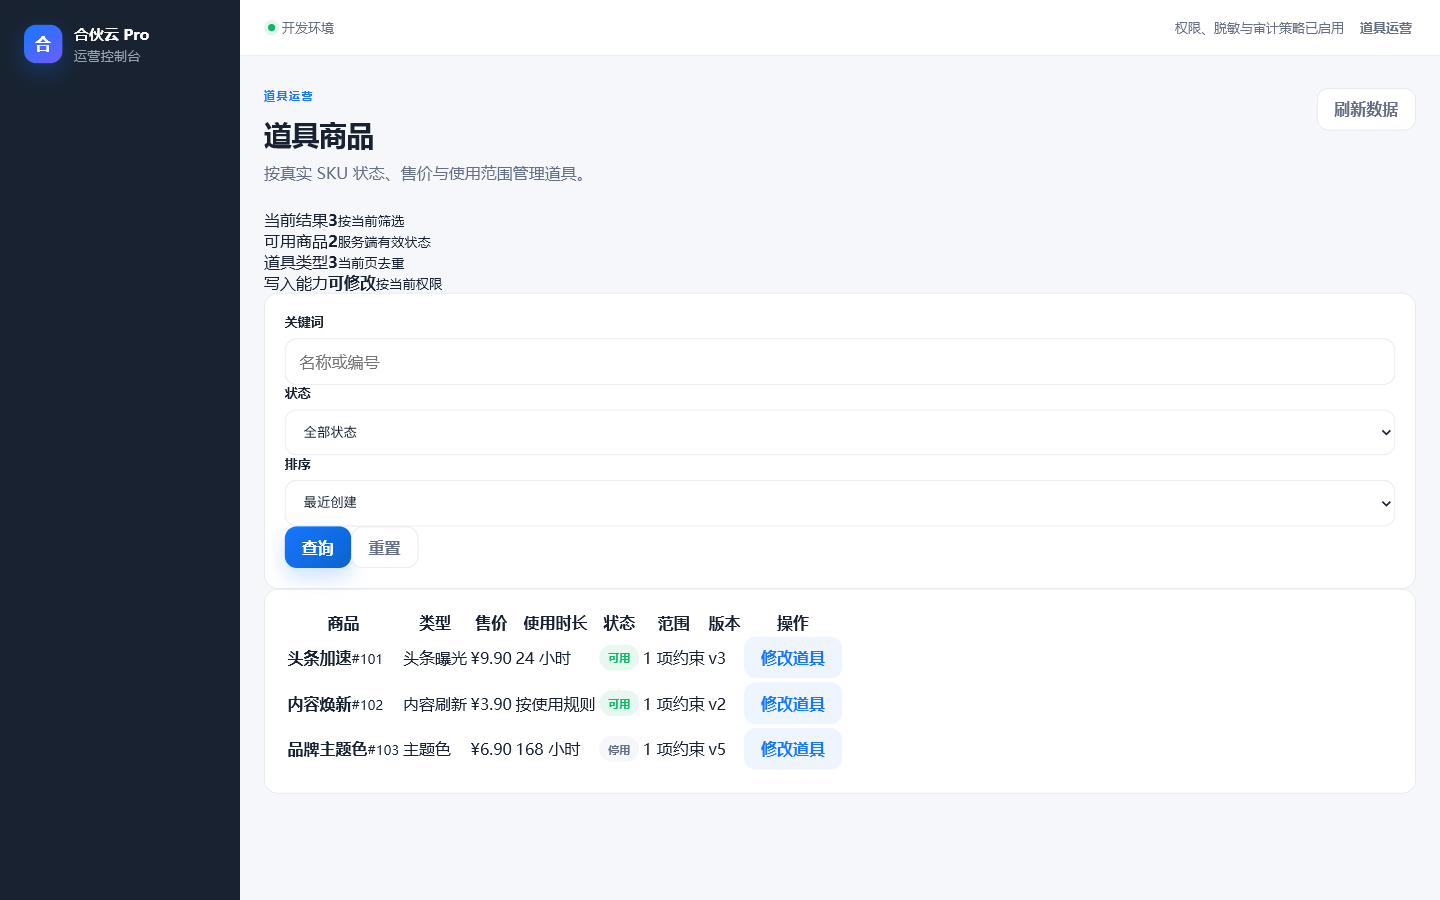
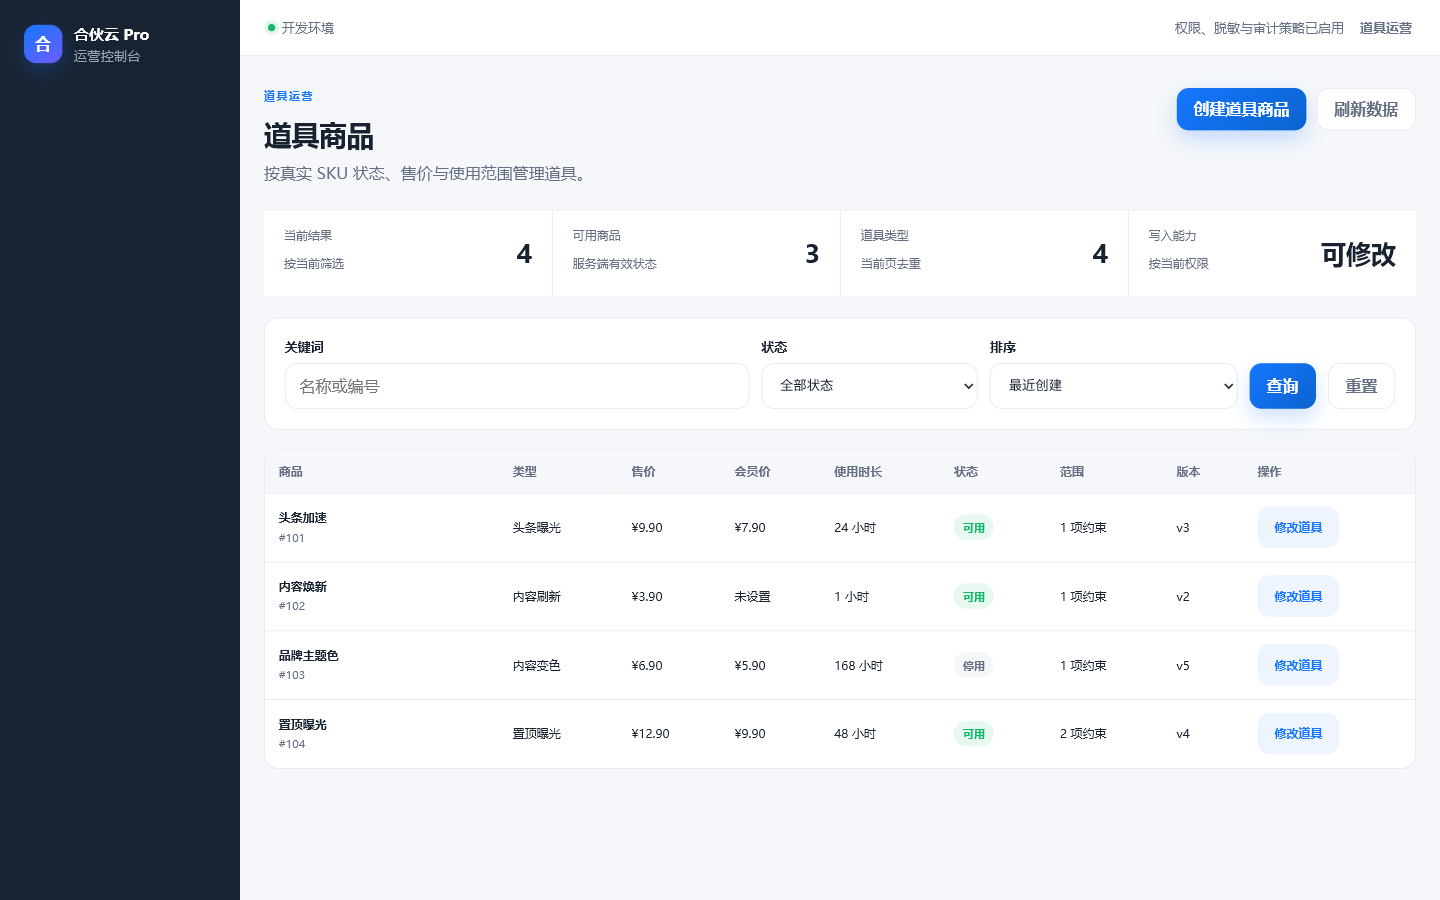
fix(r19): make prop admin configuration viewport-safe

diff --git a/apps/admin-web/src/styles.css b/apps/admin-web/src/styles.css
@@ -31,5 +31,10 @@
 @media(max-width:1050px){.security-hero,.content-grid{grid-template-columns:1fr}.metric-grid{grid-template-columns:repeat(2,1fr)}.user-filters{grid-template-columns:1fr 1fr}.user-filters .field:first-child{grid-column:1/-1}.dictionary-filters .field:first-child{grid-column:auto}.detail-grid{grid-template-columns:1fr 1fr}.facts-grid{grid-template-columns:1fr;gap:26px}}@media(max-width:850px){.layout{grid-template-columns:1fr}.sidebar{display:none}.auth-shell{grid-template-columns:1fr}.auth-story{display:none}.auth-workspace{min-height:100vh}.topbar{padding:0 var(--hhy-space-16)}.topbar-meta span:first-child{display:none}.page{padding:var(--hhy-space-24) var(--hhy-space-16)}.page-heading{display:grid}.page-actions{width:100%}.page-actions button,.page-actions a{flex:1}.user-profile-hero{align-items:flex-start;flex-direction:column}.share-media-grid{grid-template-columns:repeat(2,minmax(0,1fr))}}@media(max-width:560px){.auth-card{padding:28px 22px;border:0;box-shadow:none;background:transparent}.auth-workspace{padding:var(--hhy-space-24) var(--hhy-space-16)}.trust-list{display:grid}.metric-grid,.detail-grid{grid-template-columns:1fr}.risk-row{align-items:flex-start}.security-item{align-items:flex-start;flex-direction:column}.security-item button{width:100%}.facts{grid-template-columns:1fr}.facts dd{text-align:left}.modal{padding:var(--hhy-space-20)}.button-row,.modal-footer{display:grid}.button-row button,.modal-footer button{width:100%}.user-filters{grid-template-columns:1fr}.user-filters .field:first-child{grid-column:auto}.pagination{justify-content:space-between}.content-domain-copy{grid-template-columns:1fr;padding:0}.share-media-grid{grid-template-columns:1fr}}
 .membership-page{max-width:1600px}.membership-page .page-heading p{max-width:680px}.membership-page .order-metrics{display:grid;grid-template-columns:repeat(4,minmax(0,1fr));margin-bottom:20px;border-block:1px solid var(--hhy-color-border-default);background:var(--hhy-color-background-surface)}.membership-page .order-metrics>div{display:grid;grid-template-columns:1fr auto;gap:3px 12px;min-height:86px;padding:17px 20px;border-left:1px solid var(--hhy-color-border-default)}.membership-page .order-metrics>div:first-child{border-left:0}.membership-page .order-metrics span,.membership-page .order-metrics small{color:var(--hhy-color-text-secondary);font-size:12px}.membership-page .order-metrics strong{grid-row:1/3;grid-column:2;align-self:center;font-size:25px}.membership-page .order-filters{grid-template-columns:minmax(240px,1.5fr) minmax(160px,.7fr) minmax(180px,.8fr) auto}.membership-page .table-card{padding:0;overflow:auto}.membership-page .data-table{width:100%;min-width:1120px;border-collapse:collapse}.membership-page .data-table th,.membership-page .data-table td{padding:14px 16px;border-top:1px solid var(--hhy-color-border-default);text-align:left;font-size:13px;vertical-align:middle}.membership-page .data-table th{border-top:0;color:var(--hhy-color-text-secondary);background:var(--hhy-color-background-page);font-weight:650}.membership-page .data-table td strong,.membership-page .data-table td small{display:block}.membership-page .data-table td small{margin-top:4px;color:var(--hhy-color-text-secondary);font-size:11px}.membership-page .data-table tbody tr:hover{background:color-mix(in srgb,var(--hhy-color-brand-primary) 4%,var(--hhy-color-background-surface))}.dialog-backdrop{position:fixed;inset:0;z-index:30;display:grid;place-items:center;padding:20px;background:color-mix(in srgb,var(--hhy-color-text-primary) 38%,transparent)}.dialog-card{width:min(520px,100%);display:grid;gap:16px;padding:24px;border-radius:12px;background:var(--hhy-color-background-surface);box-shadow:0 20px 60px color-mix(in srgb,var(--hhy-color-text-primary) 20%,transparent)}.dialog-card>header,.dialog-card>footer{display:flex;align-items:center;justify-content:space-between;gap:12px}.dialog-card h2{margin:0;font-size:20px}.dialog-card .dialog-note{margin:0;color:var(--hhy-color-text-secondary);font-size:12px;line-height:1.6}.dialog-card textarea{min-height:96px;resize:vertical}.dialog-card footer{justify-content:flex-end}
 
+.prop-admin-page{max-width:1600px}.prop-admin-page .page-heading>div:last-child{display:flex;flex:0 0 auto;gap:10px}.prop-admin-page .order-metrics{display:grid;grid-template-columns:repeat(4,minmax(0,1fr));margin-bottom:20px;border-block:1px solid var(--hhy-color-border-default);background:var(--hhy-color-background-surface)}.prop-admin-page .order-metrics>div{display:grid;grid-template-columns:1fr auto;gap:3px 12px;min-width:0;min-height:86px;padding:17px 20px;border-left:1px solid var(--hhy-color-border-default)}.prop-admin-page .order-metrics>div:first-child{border-left:0}.prop-admin-page .order-metrics span,.prop-admin-page .order-metrics small{color:var(--hhy-color-text-secondary);font-size:12px}.prop-admin-page .order-metrics strong{grid-row:1/3;grid-column:2;align-self:center;font-size:25px}.prop-admin-page .order-filters{display:grid;grid-template-columns:minmax(240px,1.5fr) minmax(150px,.7fr) minmax(180px,.8fr) auto auto;gap:12px;align-items:end;margin-bottom:20px}.prop-admin-page .order-filters button{height:46px;white-space:nowrap}.prop-admin-page .table-card{padding:0;overflow-x:auto}.prop-admin-page .data-table{width:100%;min-width:1040px;border-collapse:collapse}.prop-admin-page .data-table th,.prop-admin-page .data-table td{padding:13px 14px;border-top:1px solid var(--hhy-color-border-default);text-align:left;font-size:12px;vertical-align:middle;white-space:nowrap}.prop-admin-page .data-table th{border-top:0;color:var(--hhy-color-text-secondary);background:var(--hhy-color-background-page);font-weight:650}.prop-admin-page .data-table td:first-child{min-width:150px;white-space:normal}.prop-admin-page .data-table td strong,.prop-admin-page .data-table td small{display:block}.prop-admin-page .data-table td small{margin-top:4px;color:var(--hhy-color-text-secondary);font-size:11px}.prop-admin-page .data-table tbody tr:hover{background:color-mix(in srgb,var(--hhy-color-brand-primary) 4%,var(--hhy-color-background-surface))}.prop-create-dialog{width:min(620px,100%);max-height:calc(100vh - 40px);overflow-y:auto;overscroll-behavior:contain}.prop-create-dialog>header{position:sticky;top:-24px;z-index:1;margin:-24px -24px 0;padding:24px;background:var(--hhy-color-background-surface);border-bottom:1px solid var(--hhy-color-border-default)}.prop-create-dialog>footer{position:sticky;bottom:-24px;z-index:1;margin:0 -24px -24px;padding:16px 24px 24px;background:var(--hhy-color-background-surface);border-top:1px solid var(--hhy-color-border-default)}
+
 @media(max-width:850px){.membership-page .order-metrics{grid-template-columns:1fr 1fr}.membership-page .order-metrics>div:nth-child(3){border-left:0;border-top:1px solid var(--hhy-color-border-default)}.membership-page .order-metrics>div:nth-child(4){border-top:1px solid var(--hhy-color-border-default)}}
 @media(max-width:560px){.membership-page .order-metrics{grid-template-columns:1fr}.membership-page .order-metrics>div{border-left:0;border-top:1px solid var(--hhy-color-border-default)}.membership-page .order-metrics>div:first-child{border-top:0}}
+@media(max-width:1050px){.prop-admin-page .order-filters{grid-template-columns:1fr 1fr}.prop-admin-page .order-filters .field:first-child{grid-column:1/-1}.prop-admin-page .order-filters button{width:100%}}
+@media(max-width:850px){.prop-admin-page .page-heading>div:last-child{width:100%}.prop-admin-page .page-heading>div:last-child button{flex:1}.prop-admin-page .order-metrics{grid-template-columns:1fr 1fr}.prop-admin-page .order-metrics>div:nth-child(3){border-left:0;border-top:1px solid var(--hhy-color-border-default)}.prop-admin-page .order-metrics>div:nth-child(4){border-top:1px solid var(--hhy-color-border-default)}}
+@media(max-width:560px){.prop-admin-page .page-heading>div:last-child{display:grid}.prop-admin-page .order-filters{grid-template-columns:1fr}.prop-admin-page .order-filters .field:first-child{grid-column:auto}.prop-admin-page .order-metrics{grid-template-columns:1fr}.prop-admin-page .order-metrics>div{border-left:0;border-top:1px solid var(--hhy-color-border-default)}.prop-admin-page .order-metrics>div:first-child{border-top:0}.prop-create-dialog{max-height:calc(100vh - 24px);padding:20px}.prop-create-dialog>header{top:-20px;margin:-20px -20px 0;padding:20px}.prop-create-dialog>footer{bottom:-20px;margin:0 -20px -20px;padding:14px 20px 20px}}

diff --git a/artifacts/reports/R19/visual-evidence.md b/artifacts/reports/R19/visual-evidence.md
@@ -1,9 +1,11 @@
 # R19 Visual Evidence
 
-Date: 2026-08-04  
-Sources: GitHub Actions run `30932913809` (Pixel 7 / API 35 entry revalidation) and the previously accepted Admin 1440x900 evidence.
+Date: 2026-08-05
+Sources: GitHub Actions run `30943013002` (Pixel 7 / API 35 R19 revalidation), the retained Android visual evidence, and a fresh Admin 1440x900 runtime revalidation after the prop-product configuration work.
 
 Android screenshots were generated by the R19 historical visual audit and compared page-by-page against `design/R19-UI-FROZEN/specs/` and the B11 reference. No overlap, truncation, or invented product facts were found.
+
+`ADM-PROP-001` was revalidated with four deterministic acceptance fixtures because the local admin API was not running. The fixture affected only the browser session. The final screenshot is a real rendered page, not a mock image. Document width equaled viewport width (`1440`), all table columns and actions were visible, and both create/edit dialogs stayed inside the 900px viewport with internal scrolling and fixed actions.
 
 | Page | Evidence | SHA-256 |
 | --- | --- | --- |
@@ -11,7 +13,7 @@ Android screenshots were generated by the R19 historical visual audit and compar
[8 lines of base64/hex data omitted]

diff --git a/design/R19-UI-FROZEN/VISUAL_COVERAGE_AUDIT.md b/design/R19-UI-FROZEN/VISUAL_COVERAGE_AUDIT.md
@@ -5,7 +5,7 @@
[1 lines of base64/hex data omitted]
 - 产品边界：只实现登记的四种道具与曝光权益；B11 中的示例名称、价格、数量、图片、日期和成功文案不是产品事实。
 - 后台边界：后台原目录为 `TOKENS_ONLY`，以下补充规格以 `ADM-LIST`、`CMP-ADM-001/002/004/005`、后台 Design Token、字段/状态/动作目录和后台运营规格冻结施工结构。
-- 视觉状态：`SUPPLEMENT_REVALIDATION_REQUIRED`。Android 原三页布局未变；`ADM-PROP-001` 因新增创建和完整编辑器，必须重新生成 1440x900 真实运行截图并覆盖原证据后才能恢复 `VISUAL_ACCEPTED`。
+- 视觉状态：`VISUAL_ACCEPTED`。Android 原三页布局未变；`ADM-PROP-001` 已在 1440x900 真实运行视口重新验收，商品表格、创建入口、修改入口和右侧操作列均完整可达。创建与修改弹窗均限制在视口内滚动，固定头部与提交区无重叠。
 
 | 页面 | 精确来源/补充规格 | 目标视口 | 截图证据 |
 | --- | --- | --- | --- |
@@ -13,7 +13,7 @@
 | SCR-PROP-001 | B11/P04；`specs/SCR-PROP-001.md` | Pixel 7 / API 35 | `artifacts/reports/R19/visual/android/SCR-PROP-001.png` |
 | SCR-PROP-002 | B11/P06；`specs/SCR-PROP-002.md` | Pixel 7 / API 35 | `artifacts/reports/R19/visual/android/SCR-PROP-002.png` |
 | SCR-PROP-003 | B11/P07；`specs/SCR-PROP-003.md` | Pixel 7 / API 35 | `artifacts/reports/R19/visual/android/SCR-PROP-003.png` |
-| ADM-PROP-001 | `specs/ADM-PROP-001.md`；后台 Design Token + ADM-LIST | 1440x900 | `artifacts/reports/R19/visual/admin/ADM-PROP-001-products.png` |
[1 lines of base64/hex data omitted]
 | ADM-PROP-002 | `specs/ADM-PROP-002.md`；后台 Design Token + ADM-LIST | 1440x900 | `artifacts/reports/R19/visual/admin/ADM-PROP-002-slots.png` |
 | ADM-PROP-003 | `specs/ADM-PROP-003.md`；后台 Design Token + ADM-LIST | 1440x900 | `artifacts/reports/R19/visual/admin/ADM-PROP-003-executions.png` |
 

diff --git a/artifacts/reports/R19/R19-TEST-CHECKLIST.md b/artifacts/reports/R19/R19-TEST-CHECKLIST.md
@@ -11,11 +11,12 @@
 - [x] Admin 页面：三条路由、精确 API、权限门控、业务中文文案、执行日志只读。
 - [x] 可观测性：R19 六项业务指标、查询失败不泄露数据库细节、告警规则静态门禁。
 - [x] Pixel 7 / API 35：SCR-PROP-001、002、003 真实运行截图和交互测试。
-- [x] Admin 1440x900：ADM-PROP-001、002、003 真实运行截图对照。
+- [x] Admin 1440x900：ADM-PROP-002、003 保留已验收证据；ADM-PROP-001 在补齐创建/修改商品能力后重新运行验收，确认页面无横向溢出、操作列完整，创建/修改弹窗可滚动且无重叠。
 
 ## CI 证据
 
-- 最终绿 CI：Run `30932913809`：Backend、Web、Android build/unit、R19 emulator 全部成功。
+- 补开发绿 CI：Run `30943013002`：Backend、Web、Android build/unit、R19 emulator 全部成功。
+- 管理端补充验证：32 个测试文件、139 项测试全部通过；`vue-tsc --noEmit` 通过。
 - Android 模拟器报告：36 tests，0 failures，0 errors；`meHomeProducesBoundVisualEvidence` 通过。
[1 lines of base64/hex data omitted]
 - 视觉证据：`artifacts/reports/R19/visual-evidence.md`。
